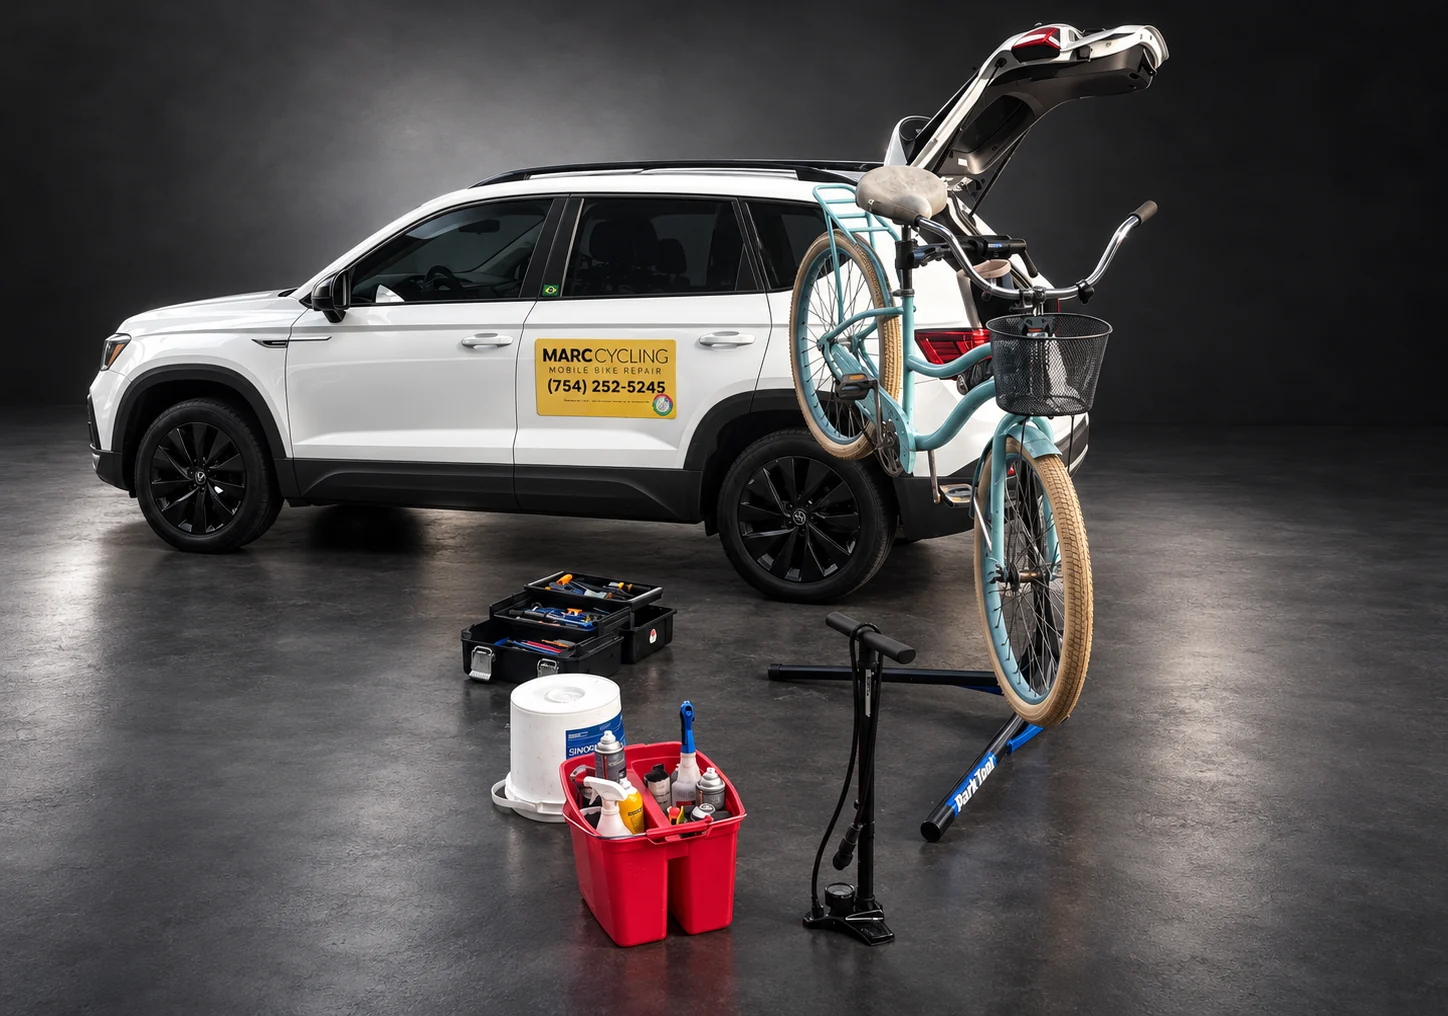
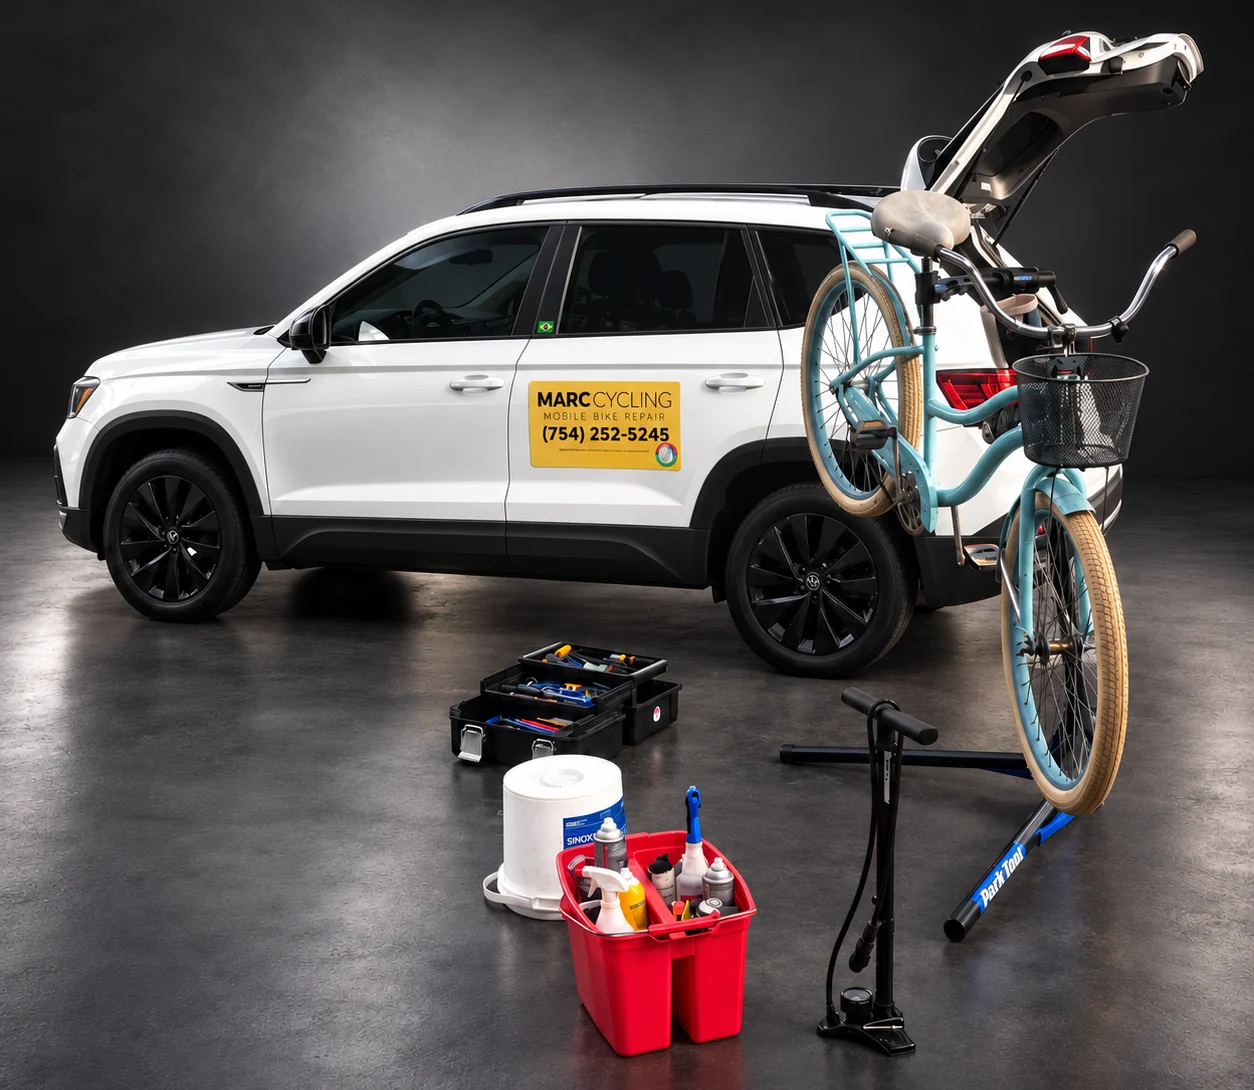
Troca a foto do carro pela versao quadrada aprovada
Claude-Session: https://claude.ai/code/session_018TwuXJjccchATqymYQ2PpN

diff --git a/index.html b/index.html
@@ -925,7 +925,7 @@ table.cmp{width:100%; border-collapse:collapse}
     </div>
 
     <figure class="veh">
-      <img src="img/vehicle-studio.webp?v=2" width="1448" height="1016" loading="lazy" decoding="async"
+      <img src="img/vehicle-studio.webp?v=3" width="1254" height="1090" loading="lazy" decoding="async"
            alt="The Marc Cycling vehicle, a white VW Taos with the yellow Marc Cycling Mobile Bike Repair magnet and the phone number (754) 252-5245 on the door, tailgate open, a bike on the rack, and the Park Tool repair stand, floor pump and tool kits set out next to it.">
       <figcaption class="veh-txt">
         <b>This is what shows up</b>
